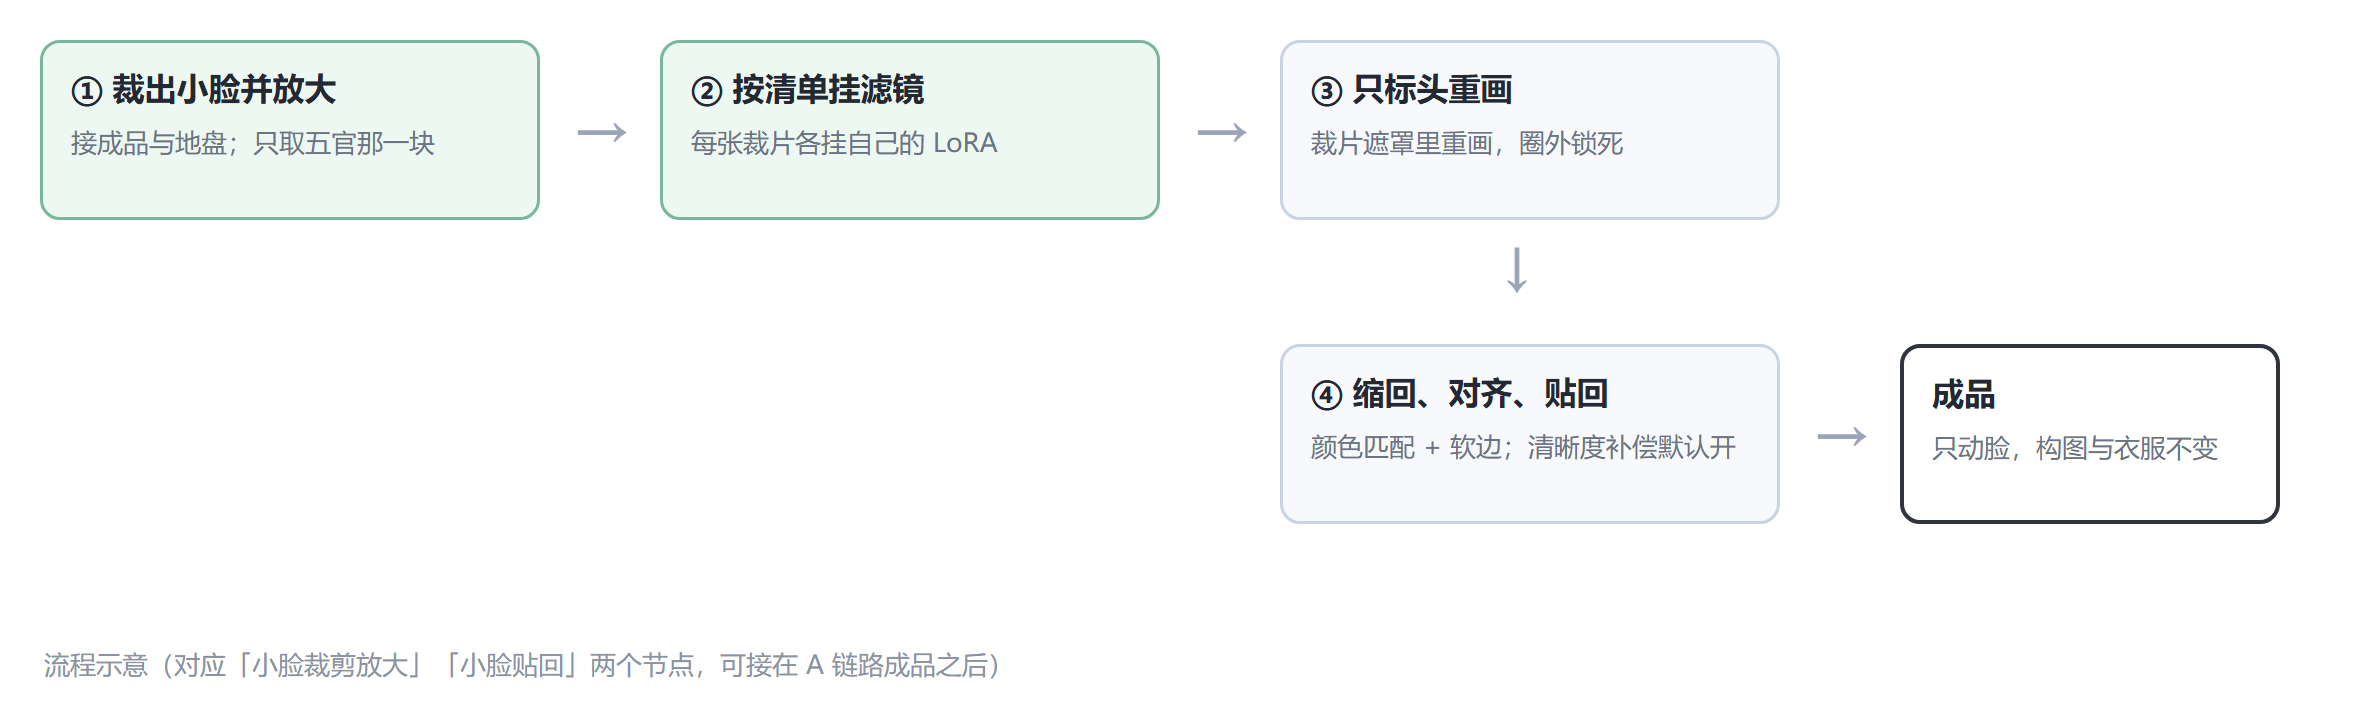
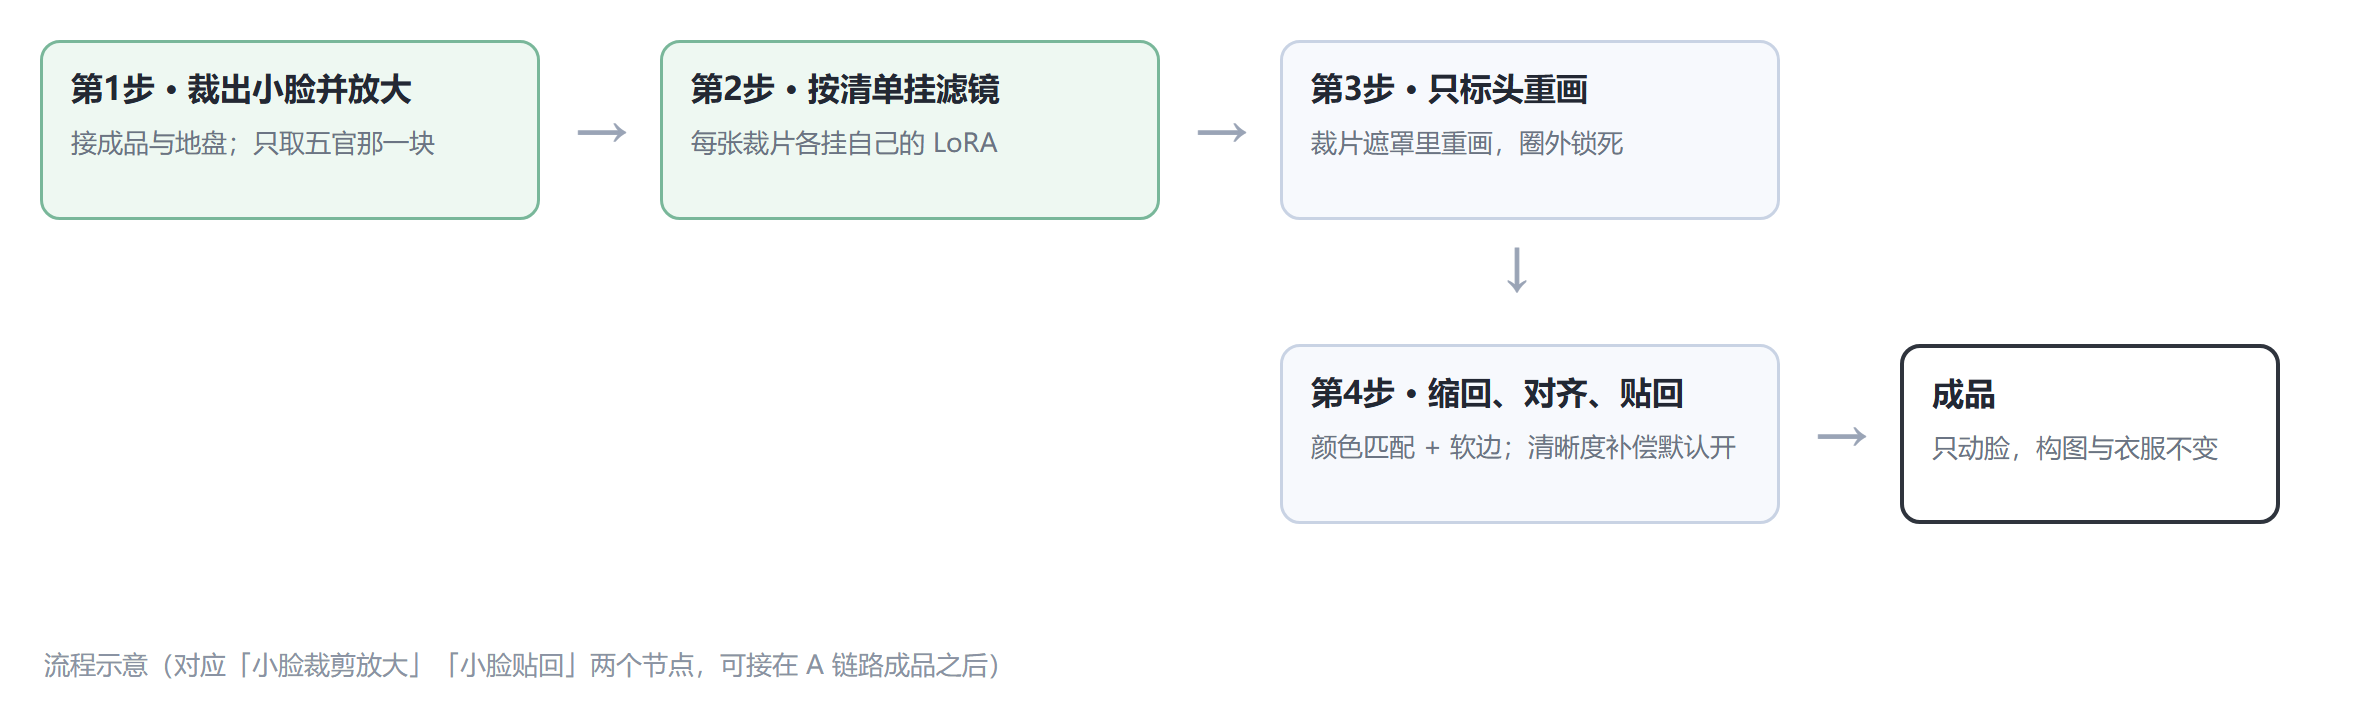
更新到 1.0.3：画面类型、特写整身、自动跳过，修复开关被调试终点强制采样

diff --git a/face_region.py b/face_region.py
@@ -13,6 +13,7 @@
 """
 
 import json
+import os
 
 import numpy as np
 import torch
@@ -167,11 +168,114 @@ def _ellipse(H, W, cx, cy, rx, ry):
     return m
 
 
-def _faces(bgr):
+def _iou(a, b):
+    x0, y0 = max(a[0], b[0]), max(a[1], b[1])
+    x1, y1 = min(a[2], b[2]), min(a[3], b[3])
+    if x1 <= x0 or y1 <= y0:
+        return 0.0
+    inter = (x1 - x0) * (y1 - y0)
+    ua = (a[2] - a[0]) * (a[3] - a[1]) + (b[2] - b[0]) * (b[3] - b[1]) - inter
+    return float(inter / max(1e-6, ua))
+
+
+def _detect_scales(app, img, scales):
+    """按给定的 (尺寸, 阈值) 依次检，返回合并去重后的原始结果。"""
+    cand = []
+    for s, th in scales:
+        try:
+            # insightface 默认只允许设置一次 det_size；换尺度前先清掉，否则第二遍会被忽略
+            if getattr(app, "det_model", None) is not None:
+                app.det_model.input_size = None
+            app.prepare(ctx_id=0, det_size=s, det_thresh=th)
+        except Exception:
+            pass
+        try:
+            cand += list(app.get(img))
+        except Exception:
+            continue
+    cand.sort(key=lambda f: -float(f.det_score))
+    keep = []
+    for f in cand:
+        if all(_iou(f.bbox, k.bbox) < 0.35 for k in keep):
+            keep.append(f)
+    return keep
+
+
+_YOLO_CACHE = {}
+
+
+def _yolo_face_boxes(bgr):
+    """用 YOLO 人脸模型补检（动漫/侧脸时 insightface 容易漏）。
+
+    只在 ultralytics 和 face_yolov8*.pt 都在的时候启用；没有就安静跳过。
+    返回 [{cx,cy,w,h,conf}]，不做识别嵌入（接参考脸时不会走这条路）。
+    """
+    try:
+        from ultralytics import YOLO
+    except Exception:
+        return []
+    path = None
+    try:
+        import folder_paths
+        roots = list(folder_paths.get_folder_paths("ultralytics_bbox")) if hasattr(folder_paths, "get_folder_paths") else []
+        roots += [os.path.join(folder_paths.models_dir, "ultralytics", "bbox")]
+    except Exception:
+        roots = [os.path.join(_self_check_mod().MODELS, "ultralytics", "bbox")]
+    for r in roots:
+        for fn in ("face_yolov8n.pt", "face_yolov8m.pt"):
+            q = os.path.join(r, fn)
+            if os.path.exists(q):
+                path = q
+                break
+        if path:
+            break
+    if not path:
+        return []
+    model = _YOLO_CACHE.get(path)
+    if model is None:
+        try:
+            model = YOLO(path)
+            _YOLO_CACHE[path] = model
+        except Exception:
+            return []
+    try:
+        res = model.predict(bgr, conf=0.75, verbose=False)[0]
+    except Exception:
+        return []
+    out = []
+    for b in getattr(res, "boxes", []):
+        x0, y0, x1, y1 = [float(v) for v in b.xyxy[0].tolist()]
+        out.append({"cx": (x0 + x1) / 2, "cy": (y0 + y1) / 2,
+                    "w": x1 - x0, "h": y1 - y0, "conf": float(b.conf[0])})
+    return out
+
+
+def _faces(bgr, mode="写实（真人照片）", allow_yolo=True):
+    """检脸。写实走 insightface（真人脸），动漫/3D 走 YOLO 人脸。
+
+    写实：多尺度 insightface；长边 >1280 再补 1600；一张都没检到再回退 512/768。
+    动漫：先确保 YOLO 人脸模型在（缺失时自动下载），YOLO 检到就用它的框；
+          YOLO 没检到再退回 insightface，避免一张都出不来。
+    """
     app = _app()
+    anime = "动漫" in str(mode)
     out = []
     for i in range(bgr.shape[0]):
-        for f in app.get(bgr[i]):
+        img = bgr[i]
+        if anime and allow_yolo:
+            yb = _yolo_face_boxes(img)
+            if yb:
+                for f in yb:
+                    out.append({"cx": f["cx"], "cy": f["cy"], "w": f["w"], "h": f["h"],
+                                "emb": np.zeros(512, np.float32), "conf": f["conf"]})
+                continue
+        scales = [((1024, 1024), 0.5)]
+        if max(img.shape[:2]) > 1280:
+            scales.append(((1600, 1600), 0.5))
+        keep = _detect_scales(app, img, scales)
+        if not keep:
+            keep = _detect_scales(app, img, [((512, 512), 0.5), ((768, 768), 0.35)])
+        for f in keep:
             box = f.bbox.astype(np.float32)
             e = f.embedding.astype(np.float32)
             out.append({"cx": float((box[0] + box[2]) / 2), "cy": float((box[1] + box[3]) / 2),
@@ -311,6 +415,10 @@ class MOSSIdFaceRegionMap:
                                                       "下载（约 309MB，只一次）；下载失败会在说明里说一声。\n"
                                                       "选到标『需外接节点』『格式不支持』的（例如手头的 SAM3），"
                                                       "本节点不会假装支持，说明里会给出确切的两步接法。"}),
+                "画面类型": (["写实（真人照片）", "动漫（插画/3D）"], {"default": "写实（真人照片）",
+                    "tooltip": "写实用 insightface 真人脸模型（默认）；\n"
+                               "动漫/3D 渲染用 YOLO 人脸，选它时如果本机没有模型会自动下载一次（约 6MB）。\n"
+                               "动漫模式不做『参考脸』相似度比对。"}),
             },
             "optional": {
                 "遮罩": ("MASK", {
@@ -331,8 +439,8 @@ class MOSSIdFaceRegionMap:
             },
         }
 
-    RETURN_TYPES = ("REGION_MAP", "STRING", "IMAGE", "MASK")
-    RETURN_NAMES = ("地盘数据", "指派说明", "地盘可视化", "小脸遮罩")
+    RETURN_TYPES = ("REGION_MAP", "STRING", "IMAGE", "MASK", "BOOLEAN")
+    RETURN_NAMES = ("地盘数据", "指派说明", "地盘可视化", "小脸遮罩", "有脸")
     FUNCTION = "build"
     CATEGORY = "MOSS多身份"
     DESCRIPTION = "按草稿图里真实人脸位置分地盘；可接遮罩只算人身上的像素；脸被挡住时自动退回备用方框"
@@ -346,7 +454,7 @@ class MOSSIdFaceRegionMap:
     }
 
     def build(self, 草稿图, 画布宽, 画布高, 归属半径, 边界抹软像素, 角色名字, 谁是谁,
-               遮罩来源, 遮罩放大像素, SAM模型, 小脸精修上限=0,
+               遮罩来源, 遮罩放大像素, SAM模型, 小脸精修上限=0, 画面类型="写实（真人照片）",
                遮罩=None, 参考脸=None, 备用方框=None, 来源开关=None, **旧字段):
         if 来源开关:
             # 接了这个口就以它为准：工作流里用一个开关节点就能换来源，不用每次进节点改下拉
@@ -366,15 +474,40 @@ class MOSSIdFaceRegionMap:
         auto_cut = not str(遮罩来源).startswith(("不接", "外部"))
         env_lines = self._env_silent(auto_cut)
         sam_row = pm.sam_row(SAM模型)
-        sam_note = "SAM 模型：%s ｜ %s ｜ 本机路径：%s" % (
-            sam_row["相对路径"], sam_row["结论"], sam_row["绝对路径"])
+        sam_note = "SAM 模型：%s ｜ %s" % (
+            sam_row["相对路径"], sam_row["结论"])
         names = [s.strip() for s in str(角色名字).replace("，", ",").split(",") if s.strip()]
+        yolo_note = ""
+        if "动漫" in str(画面类型):
+            try:
+                _p, _msg = _self_check_mod().ensure_yolo_face()
+                yolo_note = "画面类型：动漫｜YOLO 人脸（%s）" % _msg
+                if _p is None:
+                    yolo_note += "｜没下成功，本次退回 insightface"
+            except Exception as exc:
+                yolo_note = "画面类型：动漫｜YOLO 人脸准备失败（%s），本次退回 insightface" % type(exc).__name__
         draft = _to_bgr(草稿图)
         refs = _to_bgr(参考脸) if 参考脸 is not None else None
-        dfaces = _faces(draft)
+        dfaces = _faces(draft, mode=画面类型, allow_yolo=(refs is None))
         if not dfaces:
-            raise RuntimeError("草稿图里一张脸都没检到。要么这张图里确实没有正脸，"
-                               "要么换一张脸看得清的草稿（第一趟不带人物滤镜出的那张）。")
+            # 一张脸都没检到：给一份“没有主人”的空地盘（不阻断），
+            # ② 开关会据此直通到 ①，③ 也因此拿不到裁片而直通，最终仍能保存。
+            Wc, Hc = int(画布宽), int(画布高)
+            gw, gh = max(1, Wc // DS), max(1, Hc // DS)
+            empty_region = {
+                "grid_w": gw, "grid_h": gh, "n_img": gw * gh, "ds": DS,
+                "canvas": (Wc, Hc), "boxes": [],
+                "weight": torch.zeros((1, gw * gh)),
+                "owner": torch.zeros((gh, gw), dtype=torch.int8),
+                "feather": int(边界抹软像素), "mode": "没人脸",
+                "小脸上限": int(小脸精修上限),
+            }
+            blank = torch.zeros((1, Hc, Wc, 3), dtype=torch.float32)
+            zero_mask = torch.zeros((1, Hc, Wc), dtype=torch.float32)
+            return (empty_region,
+                    "这张图里一张脸都没检到：② 不跑，最终保存的是 ① 的草稿。"
+                    "换个脸看得清的图，或者改用「地盘分配器」按方框分区。",
+                    blank, zero_mask, False)
 
         # 人数＝「角色名字填的个数」和「草稿里检到的脸数」里取多的那个：
         # 名字留空＝全自动（检到几张脸就几个人）；只填两个名字但画面里有 8 个人，
@@ -692,6 +825,7 @@ class MOSSIdFaceRegionMap:
                  + (f"，参考脸 {min(n_people, refs.shape[0]) if refs is not None else 0} 张" if refs is not None
                     else "，没接参考脸（只有体检分没有，地盘照分）"),
                  auto_note,
+                 *([yolo_note] if yolo_note else []),
                  # 选了自动切却没切成（模型不认 / 切失败），这一行必须把原因顶上去，
                  # 不许退化成「不接遮罩」——那等于把话吞了
                  "遮罩来源：%s%s" % (mask_src if (auto_cut or mask_tensor is not None)
@@ -852,7 +986,7 @@ class MOSSIdFaceRegionMap:
         if small_notes:
             lines += [""] + ["小脸精修：" + n for n in small_notes]
 
-        return (region, "\n".join(lines), vis, small_mask)
+        return (region, "\n".join(lines), vis, small_mask, True)
 
 
 NODE_CLASS_MAPPINGS = {"MOSSIdFaceRegionMap": MOSSIdFaceRegionMap}

diff --git a/smallface_nodes.py b/smallface_nodes.py
@@ -104,8 +104,8 @@ class MOSSIdSmallFaceCrop:
             },
         }
 
-    RETURN_TYPES = ("IMAGE", "MASK", "REGION_MAP", "STRING")
-    RETURN_NAMES = ("裁片", "裁片遮罩", "裁片地盘", "说明")
+    RETURN_TYPES = ("IMAGE", "MASK", "REGION_MAP", "STRING", "BOOLEAN")
+    RETURN_NAMES = ("裁片", "裁片遮罩", "裁片地盘", "说明", "有裁片")
     FUNCTION = "run"
     CATEGORY = "MOSS多身份"
     DESCRIPTION = "把每张小脸裁出来放大（一次出多张）；裁片地盘按编号接滤镜，贴回见下一个节点"
@@ -184,24 +184,16 @@ class MOSSIdSmallFaceCrop:
                 notes.append("%s：脸宽 %.0f 像素（上限 %d）→ 进放大重画" % (nm, w, lim))
 
         if not picks:
-            # 一张都没进：也要给下游一张合法输入，否则采样器直接报错。
-            # 这一张的遮罩是全黑的，重画不出来任何变化，贴回也不会改动任何像素。
-            U = _snap16(max(W, H))
-            canvas = np.zeros((U, U, 3), np.uint8)
-            canvas[:min(U, H), :min(U, W)] = a[:min(U, H), :min(U, W)]
-            m = np.zeros((U, U), np.float32)
-            region = {"grid_w": U // DS, "grid_h": U // DS, "n_img": (U // DS) ** 2,
-                      "ds": DS, "canvas": (U, U),
-                      "boxes": [{"owner": 1, "name": "无", "x": 0, "y": 0, "w": U, "h": U}],
-                      "weight": torch.zeros((1, (U // DS) ** 2)),
-                      "owner": torch.zeros((U // DS, U // DS), dtype=torch.int8),
-                      "feather": 0, "mode": "小脸裁剪·空", "按项门控": True,
-                      "项归属": [1], "裁片": {"items": [], "canvas": (W, H), "padded": U}} 
-            return (torch.from_numpy(canvas).float().div_(255.0)[None],
-                    torch.from_numpy(m)[None], region,
-                    "\n".join(["小脸精修：" + n for n in notes]
-                              + ["没有脸进放大重画，这一趟等于不做事。"])
-                    )
+            # 一张都没进：这一段没有继续的意义。直接把三个图像/数据口阻断，
+            # 下游（装回、采样、解码、贴回、保存）整条都不会执行，不白跑。
+            notes.append("没有小脸：③ 不跑，最终保存的是 ② 的图。")
+            txt = "\n".join(["小脸精修：" + n for n in notes])
+            try:
+                from comfy_execution.graph import ExecutionBlocker
+                blk = lambda: ExecutionBlocker(None)
+            except Exception:
+                blk = lambda: None
+            return (blk(), blk(), blk(), txt, False)
 
         # ── 逐张裁、放大；先算统一尺寸（一个批里的所有图必须一样大）──────────
         plans = []
@@ -400,7 +392,7 @@ class MOSSIdSmallFaceCrop:
                            "裁片遮罩是按每个人的脸框单独算的（已扣掉别人的脸框），接 SetLatentNoiseMask，保证只重画自己这个头。"])
         return (torch.from_numpy(np.stack(crops)).float().div_(255.0),
                 torch.from_numpy(np.stack(masks)),
-                region, txt)
+                region, txt, True)
 
 
 class MOSSIdSmallFacePaste:

diff --git a/person_masks.py b/person_masks.py
@@ -341,6 +341,8 @@ def _star_mask(pred, H, W, own, others, rounds=4):
                     cur = cur | mk
                     acc += 1
             got += acc
+            if cur.sum() > 0.35 * H * W:
+                break
             if acc == 0:
                 break
     return cur, got
@@ -412,8 +414,39 @@ def predict_person_masks(img_rgb, faces, ckpt, device="cuda"):
                 leg = _legacy_face_down_mask(pred, img_rgb, faces, i, H, W)
                 if leg is not None:
                     mk = np.logical_or(mk, leg) if mk.any() else leg
-            # 只保留"和本人脸连通"的那一块：SAM 偶尔会把别人的鞋、手粘进来
+            _full_body = False
+            # 特写整身：脸占画面很大时（近景/半身），星芒常只切到皮肤。
+            # 用整幅框再问一次 SAM，取“含本人脸、不含别人脸、面积 35%~95%”的最大块，
+            # 这样头发、衣服会一起进来；多人图脸很小，这条不会触发。
             try:
+                if own["w"] >= 0.18 * W or own["h"] >= 0.25 * H:
+                    _mb, _sb, _ = pred.predict(box=np.array([0, 0, W - 1, H - 1], np.float32),
+                                               multimask_output=True)
+                    _best = None
+                    for _cand in _mb:
+                        _q = np.asarray(_cand) > 0
+                        if _q.shape[:2] != (H, W):
+                            continue
+                        _area = float(_q.sum())
+                        if _area < 0.35 * H * W or _area > 0.95 * H * W:
+                            continue
+                        if not _pt_in(_q, own["cx"], own["cy"]):
+                            continue
+                        if any(_pt_in(_q, g["cx"], g["cy"]) for g in others):
+                            continue
+                        if _best is None or _area > float(_best.sum()):
+                            _best = _q
+                    if _best is not None and _best.sum() > mk.sum() * 1.3:
+                        mk = _best
+                        _full_body = True
+            except Exception:
+                pass
+
+            # 只保留"和本人脸连通"的那一块：SAM 偶尔会把别人的鞋、手粘进来
+            # （特写整身那块是整幅框选出来的，头发/衣服本来就可能分成多个连通块，不再裁）
+            try:
+                if _full_body:
+                    raise RuntimeError("skip")
                 import cv2 as _cv
                 _n, lab, _st, _c = _cv.connectedComponentsWithStats(mk.astype(np.uint8), connectivity=8)
                 keep = int(lab[int(min(H - 1, max(0, own["cy"]))), int(min(W - 1, max(0, own["cx"])))])

diff --git a/switch_nodes.py b/switch_nodes.py
@@ -18,9 +18,13 @@ class MOSSIdStageSwitch:
         return {
             "required": {
                 "开关": ("BOOLEAN", {"default": True,
-                    "tooltip": "开＝走『开时』那一支（例如：跑这一环节）；关＝走『关时』那一支（例如：跳过，直接用上一环节的图）。"}),
+                    "tooltip": "开＝走『开时』那一支（例如：跑这一环节）；关＝走『关时』那一支（例如：跳过，直接用上一环节的图）。\n"
+                               "『条件』为否时也会走『关时』。"}),
             },
             "optional": {
+                "条件": ("BOOLEAN", {"default": True,
+                    "tooltip": "可选。接“这一环节有没有活干”的判断（地盘的『有脸』、小脸的『有裁片』）。\n"
+                               "条件＝否时直接走『关时』，『开时』整条支路不执行。不接＝只看开关。"}),
                 "关时": ("IMAGE", {"lazy": True,
                     "tooltip": "开关＝关时输出的图（通常是上一环节的成品）。"}),
                 "开时": ("IMAGE", {"lazy": True,
@@ -34,14 +38,14 @@ class MOSSIdStageSwitch:
     CATEGORY = "MOSS多身份"
     DESCRIPTION = "二选一：只执行被选中的那一支，没选中的整条支路都不会跑"
 
-    def check_lazy_status(self, 开关, 关时=None, 开时=None):
-        return ["开时"] if 开关 else ["关时"]
+    def check_lazy_status(self, 开关, 条件=True, 关时=None, 开时=None):
+        return ["开时"] if (开关 and 条件) else ["关时"]
 
-    def run(self, 开关, 关时=None, 开时=None):
-        img = 开时 if 开关 else 关时
+    def run(self, 开关, 条件=True, 关时=None, 开时=None):
+        on = bool(开关) and bool(条件)
+        img = 开时 if on else 关时
         if img is None:
-            raise RuntimeError("环节开关：开关＝%s，但对应那一支没接图。" %
-                               ("开" if 开关 else "关"))
+            raise RuntimeError("环节开关：这一支没接图（开关＝%s，条件＝%s）。" % (开关, 条件))
         return (img,)
 
 

diff --git a/self_check.py b/self_check.py
@@ -59,6 +59,29 @@ WEIGHTS = [
      323606802, "没有就切不出「每人一块」，其余功能照常"),
 ]
 
+# 动漫模式用的 YOLO 人脸模型：只有在节点里选「动漫」且本机没有时才下载。
+# 优先走 hf-mirror（国内直连更稳），失败再试 huggingface 原站。
+YOLO_FACE_REL = os.path.join("ultralytics", "bbox", "face_yolov8n.pt")
+YOLO_FACE_URLS = [
+    "https://hf-mirror.com/Bingsu/adetailer/resolve/main/face_yolov8n.pt",
+    "https://huggingface.co/Bingsu/adetailer/resolve/main/face_yolov8n.pt",
+]
+
+
+def ensure_yolo_face():
+    """确保动漫人脸模型在 models/ultralytics/bbox/ 下。返回 (路径或None, 说明)。"""
+    dst = os.path.join(MODELS, YOLO_FACE_REL)
+    if os.path.exists(dst) and os.path.getsize(dst) > 1024 * 1024:
+        return dst, "已有动漫人脸模型"
+    last = ""
+    for url in YOLO_FACE_URLS:
+        ok, bad = fetch_weights([("动漫人脸模型", dst, url, 0, "动漫模式检脸")])
+        if ok:
+            return dst, ok[0]
+        last = "；".join(bad)
+    return None, last or "下载失败"
+
+
 # 本插件自带的默认权重（缺失时会自动下载，所以清单里永远有它）
 DEFAULT_SAM2 = WEIGHTS[0][1]
 SAM2_URL = WEIGHTS[0][2]
